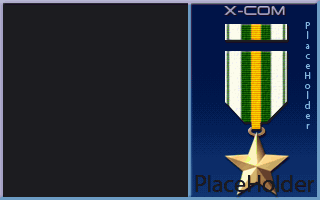
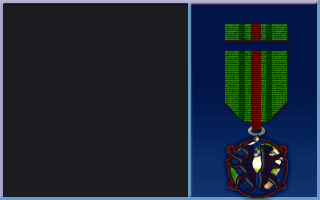
Add new ufopaedia pics for medals b holomorph

diff --git a/COMMENDATIONS_LICENSE.md b/COMMENDATIONS_LICENSE.md
@@ -1,0 +1,175 @@
+## creative commons
+
+# Attribution-NonCommercial-ShareAlike 4.0 International
+
+Creative Commons Corporation (“Creative Commons”) is not a law firm and does not provide legal services or legal advice. Distribution of Creative Commons public licenses does not create a lawyer-client or other relationship. Creative Commons makes its licenses and related information available on an “as-is” basis. Creative Commons gives no warranties regarding its licenses, any material licensed under their terms and conditions, or any related information. Creative Commons disclaims all liability for damages resulting from their use to the fullest extent possible.
+
+### Using Creative Commons Public Licenses
+
+Creative Commons public licenses provide a standard set of terms and conditions that creators and other rights holders may use to share original works of authorship and other material subject to copyright and certain other rights specified in the public license below. The following considerations are for informational purposes only, are not exhaustive, and do not form part of our licenses.
+
+* __Considerations for licensors:__ Our public licenses are intended for use by those authorized to give the public permission to use material in ways otherwise restricted by copyright and certain other rights. Our licenses are irrevocable. Licensors should read and understand the terms and conditions of the license they choose before applying it. Licensors should also secure all rights necessary before applying our licenses so that the public can reuse the material as expected. Licensors should clearly mark any material not subject to the license. This includes other CC-licensed material, or material used under an exception or limitation to copyright. [More considerations for licensors](http://wiki.creativecommons.org/Considerations_for_licensors_and_licensees#Considerations_for_licensors).
+
+* __Considerations for the public:__ By using one of our public licenses, a licensor grants the public permission to use the licensed material under specified terms and conditions. If the licensor’s permission is not necessary for any reason–for example, because of any applicable exception or limitation to copyright–then that use is not regulated by the license. Our licenses grant only permissions under copyright and certain other rights that a licensor has authority to grant. Use of the licensed material may still be restricted for other reasons, including because others have copyright or other rights in the material. A licensor may make special requests, such as asking that all changes be marked or described. Although not required by our licenses, you are encouraged to respect those requests where reasonable. [More considerations for the public](http://wiki.creativecommons.org/Considerations_for_licensors_and_licensees#Considerations_for_licensees).
+
+## Creative Commons Attribution-NonCommercial-ShareAlike 4.0 International Public License
+
+By exercising the Licensed Rights (defined below), You accept and agree to be bound by the terms and conditions of this Creative Commons Attribution-NonCommercial-ShareAlike 4.0 International Public License ("Public License"). To the extent this Public License may be interpreted as a contract, You are granted the Licensed Rights in consideration of Your acceptance of these terms and conditions, and the Licensor grants You such rights in consideration of benefits the Licensor receives from making the Licensed Material available under these terms and conditions.
+
+### Section 1 – Definitions.
+
+a. __Adapted Material__ means material subject to Copyright and Similar Rights that is derived from or based upon the Licensed Material and in which the Licensed Material is translated, altered, arranged, transformed, or otherwise modified in a manner requiring permission under the Copyright and Similar Rights held by the Licensor. For purposes of this Public License, where the Licensed Material is a musical work, performance, or sound recording, Adapted Material is always produced where the Licensed Material is synched in timed relation with a moving image.
+
+b. __Adapter's License__ means the license You apply to Your Copyright and Similar Rights in Your contributions to Adapted Material in accordance with the terms and conditions of this Public License.
+
+c. __BY-NC-SA Compatible License__ means a license listed at [creativecommons.org/compatiblelicenses](http://creativecommons.org/compatiblelicenses), approved by Creative Commons as essentially the equivalent of this Public License.
+
+d. __Copyright and Similar Rights__ means copyright and/or similar rights closely related to copyright including, without limitation, performance, broadcast, sound recording, and Sui Generis Database Rights, without regard to how the rights are labeled or categorized. For purposes of this Public License, the rights specified in Section 2(b)(1)-(2) are not Copyright and Similar Rights.
+
+e. __Effective Technological Measures__ means those measures that, in the absence of proper authority, may not be circumvented under laws fulfilling obligations under Article 11 of the WIPO Copyright Treaty adopted on December 20, 1996, and/or similar international agreements.
+
+f. __Exceptions and Limitations__ means fair use, fair dealing, and/or any other exception or limitation to Copyright and Similar Rights that applies to Your use of the Licensed Material.
+
+g. __License Elements__ means the license attributes listed in the name of a Creative Commons Public License. The License Elements of this Public License are Attribution, NonCommercial, and ShareAlike.
+
+h. __Licensed Material__ means the artistic or literary work, database, or other material to which the Licensor applied this Public License.
+
+i. __Licensed Rights__ means the rights granted to You subject to the terms and conditions of this Public License, which are limited to all Copyright and Similar Rights that apply to Your use of the Licensed Material and that the Licensor has authority to license.
+
+h. __Licensor__ means the individual(s) or entity(ies) granting rights under this Public License.
+
+i. __NonCommercial__ means not primarily intended for or directed towards commercial advantage or monetary compensation. For purposes of this Public License, the exchange of the Licensed Material for other material subject to Copyright and Similar Rights by digital file-sharing or similar means is NonCommercial provided there is no payment of monetary compensation in connection with the exchange.
+
+j. __Share__ means to provide material to the public by any means or process that requires permission under the Licensed Rights, such as reproduction, public display, public performance, distribution, dissemination, communication, or importation, and to make material available to the public including in ways that members of the public may access the material from a place and at a time individually chosen by them.
+
+k. __Sui Generis Database Rights__ means rights other than copyright resulting from Directive 96/9/EC of the European Parliament and of the Council of 11 March 1996 on the legal protection of databases, as amended and/or succeeded, as well as other essentially equivalent rights anywhere in the world.
+
+l. __You__ means the individual or entity exercising the Licensed Rights under this Public License. Your has a corresponding meaning.
+
+### Section 2 – Scope.
+
+a. ___License grant.___
+
+   1. Subject to the terms and conditions of this Public License, the Licensor hereby grants You a worldwide, royalty-free, non-sublicensable, non-exclusive, irrevocable license to exercise the Licensed Rights in the Licensed Material to:
+
+        A. reproduce and Share the Licensed Material, in whole or in part, for NonCommercial purposes only; and
+
+        B. produce, reproduce, and Share Adapted Material for NonCommercial purposes only.
+
+   2. __Exceptions and Limitations.__ For the avoidance of doubt, where Exceptions and Limitations apply to Your use, this Public License does not apply, and You do not need to comply with its terms and conditions.
+
+   3. __Term.__ The term of this Public License is specified in Section 6(a).
+
+   4. __Media and formats; technical modifications allowed.__ The Licensor authorizes You to exercise the Licensed Rights in all media and formats whether now known or hereafter created, and to make technical modifications necessary to do so. The Licensor waives and/or agrees not to assert any right or authority to forbid You from making technical modifications necessary to exercise the Licensed Rights, including technical modifications necessary to circumvent Effective Technological Measures. For purposes of this Public License, simply making modifications authorized by this Section 2(a)(4) never produces Adapted Material.
+
+    5. __Downstream recipients.__
+
+        A. __Offer from the Licensor – Licensed Material.__ Every recipient of the Licensed Material automatically receives an offer from the Licensor to exercise the Licensed Rights under the terms and conditions of this Public License.
+
+        B. __Additional offer from the Licensor – Adapted Material.__ Every recipient of Adapted Material from You automatically receives an offer from the Licensor to exercise the Licensed Rights in the Adapted Material under the conditions of the Adapter’s License You apply.
+
+        C. __No downstream restrictions.__ You may not offer or impose any additional or different terms or conditions on, or apply any Effective Technological Measures to, the Licensed Material if doing so restricts exercise of the Licensed Rights by any recipient of the Licensed Material.
+
+    6. __No endorsement.__ Nothing in this Public License constitutes or may be construed as permission to assert or imply that You are, or that Your use of the Licensed Material is, connected with, or sponsored, endorsed, or granted official status by, the Licensor or others designated to receive attribution as provided in Section 3(a)(1)(A)(i).
+
+b. ___Other rights.___
+
+   1. Moral rights, such as the right of integrity, are not licensed under this Public License, nor are publicity, privacy, and/or other similar personality rights; however, to the extent possible, the Licensor waives and/or agrees not to assert any such rights held by the Licensor to the limited extent necessary to allow You to exercise the Licensed Rights, but not otherwise.
+
+   2. Patent and trademark rights are not licensed under this Public License.
+
+   3. To the extent possible, the Licensor waives any right to collect royalties from You for the exercise of the Licensed Rights, whether directly or through a collecting society under any voluntary or waivable statutory or compulsory licensing scheme. In all other cases the Licensor expressly reserves any right to collect such royalties, including when the Licensed Material is used other than for NonCommercial purposes.
+
+### Section 3 – License Conditions.
+
+Your exercise of the Licensed Rights is expressly made subject to the following conditions.
+
+a. ___Attribution.___
+
+   1. If You Share the Licensed Material (including in modified form), You must:
+
+       A. retain the following if it is supplied by the Licensor with the Licensed Material:
+
+         i. identification of the creator(s) of the Licensed Material and any others designated to receive attribution, in any reasonable manner requested by the Licensor (including by pseudonym if designated);
+
+         ii. a copyright notice;
+
+         iii. a notice that refers to this Public License;
+
+         iv. a notice that refers to the disclaimer of warranties;
+
+         v. a URI or hyperlink to the Licensed Material to the extent reasonably practicable;
+
+       B. indicate if You modified the Licensed Material and retain an indication of any previous modifications; and
+
+       C. indicate the Licensed Material is licensed under this Public License, and include the text of, or the URI or hyperlink to, this Public License.
+
+    2. You may satisfy the conditions in Section 3(a)(1) in any reasonable manner based on the medium, means, and context in which You Share the Licensed Material. For example, it may be reasonable to satisfy the conditions by providing a URI or hyperlink to a resource that includes the required information.
+
+    3. If requested by the Licensor, You must remove any of the information required by Section 3(a)(1)(A) to the extent reasonably practicable.
+
+b. ___ShareAlike.___
+
+In addition to the conditions in Section 3(a), if You Share Adapted Material You produce, the following conditions also apply.
+
+1. The Adapter’s License You apply must be a Creative Commons license with the same License Elements, this version or later, or a BY-NC-SA Compatible License.
+
+2. You must include the text of, or the URI or hyperlink to, the Adapter's License You apply. You may satisfy this condition in any reasonable manner based on the medium, means, and context in which You Share Adapted Material.
+
+3. You may not offer or impose any additional or different terms or conditions on, or apply any Effective Technological Measures to, Adapted Material that restrict exercise of the rights granted under the Adapter's License You apply.
+
+### Section 4 – Sui Generis Database Rights.
+
+Where the Licensed Rights include Sui Generis Database Rights that apply to Your use of the Licensed Material:
+
+a. for the avoidance of doubt, Section 2(a)(1) grants You the right to extract, reuse, reproduce, and Share all or a substantial portion of the contents of the database for NonCommercial purposes only;
+
+b. if You include all or a substantial portion of the database contents in a database in which You have Sui Generis Database Rights, then the database in which You have Sui Generis Database Rights (but not its individual contents) is Adapted Material, including for purposes of Section 3(b); and
+
+c. You must comply with the conditions in Section 3(a) if You Share all or a substantial portion of the contents of the database.
+
+For the avoidance of doubt, this Section 4 supplements and does not replace Your obligations under this Public License where the Licensed Rights include other Copyright and Similar Rights.
+
+### Section 5 – Disclaimer of Warranties and Limitation of Liability.
+
+a. __Unless otherwise separately undertaken by the Licensor, to the extent possible, the Licensor offers the Licensed Material as-is and as-available, and makes no representations or warranties of any kind concerning the Licensed Material, whether express, implied, statutory, or other. This includes, without limitation, warranties of title, merchantability, fitness for a particular purpose, non-infringement, absence of latent or other defects, accuracy, or the presence or absence of errors, whether or not known or discoverable. Where disclaimers of warranties are not allowed in full or in part, this disclaimer may not apply to You.__
+
+b. __To the extent possible, in no event will the Licensor be liable to You on any legal theory (including, without limitation, negligence) or otherwise for any direct, special, indirect, incidental, consequential, punitive, exemplary, or other losses, costs, expenses, or damages arising out of this Public License or use of the Licensed Material, even if the Licensor has been advised of the possibility of such losses, costs, expenses, or damages. Where a limitation of liability is not allowed in full or in part, this limitation may not apply to You.__
+
+c. The disclaimer of warranties and limitation of liability provided above shall be interpreted in a manner that, to the extent possible, most closely approximates an absolute disclaimer and waiver of all liability.
+
+### Section 6 – Term and Termination.
+
+a. This Public License applies for the term of the Copyright and Similar Rights licensed here. However, if You fail to comply with this Public License, then Your rights under this Public License terminate automatically.
+
+b. Where Your right to use the Licensed Material has terminated under Section 6(a), it reinstates:
+
+   1. automatically as of the date the violation is cured, provided it is cured within 30 days of Your discovery of the violation; or
+
+   2. upon express reinstatement by the Licensor.
+
+   For the avoidance of doubt, this Section 6(b) does not affect any right the Licensor may have to seek remedies for Your violations of this Public License.
+
+c. For the avoidance of doubt, the Licensor may also offer the Licensed Material under separate terms or conditions or stop distributing the Licensed Material at any time; however, doing so will not terminate this Public License.
+
+d. Sections 1, 5, 6, 7, and 8 survive termination of this Public License.
+
+### Section 7 – Other Terms and Conditions.
+
+a. The Licensor shall not be bound by any additional or different terms or conditions communicated by You unless expressly agreed.
+
+b. Any arrangements, understandings, or agreements regarding the Licensed Material not stated herein are separate from and independent of the terms and conditions of this Public License.
+
+### Section 8 – Interpretation.
+
+a. For the avoidance of doubt, this Public License does not, and shall not be interpreted to, reduce, limit, restrict, or impose conditions on any use of the Licensed Material that could lawfully be made without permission under this Public License.
+
+b. To the extent possible, if any provision of this Public License is deemed unenforceable, it shall be automatically reformed to the minimum extent necessary to make it enforceable. If the provision cannot be reformed, it shall be severed from this Public License without affecting the enforceability of the remaining terms and conditions.
+
+c. No term or condition of this Public License will be waived and no failure to comply consented to unless expressly agreed to by the Licensor.
+
+d. Nothing in this Public License constitutes or may be interpreted as a limitation upon, or waiver of, any privileges and immunities that apply to the Licensor or You, including from the legal processes of any jurisdiction or authority.
+
+> Creative Commons is not a party to its public licenses. Notwithstanding, Creative Commons may elect to apply one of its public licenses to material it publishes and in those instances will be considered the “Licensor.” Except for the limited purpose of indicating that material is shared under a Creative Commons public license or as otherwise permitted by the Creative Commons policies published at [creativecommons.org/policies](http://creativecommons.org/policies), Creative Commons does not authorize the use of the trademark “Creative Commons” or any other trademark or logo of Creative Commons without its prior written consent including, without limitation, in connection with any unauthorized modifications to any of its public licenses or any other arrangements, understandings, or agreements concerning use of licensed material. For the avoidance of doubt, this paragraph does not form part of the public licenses.
+>
+> Creative Commons may be contacted at creativecommons.org
